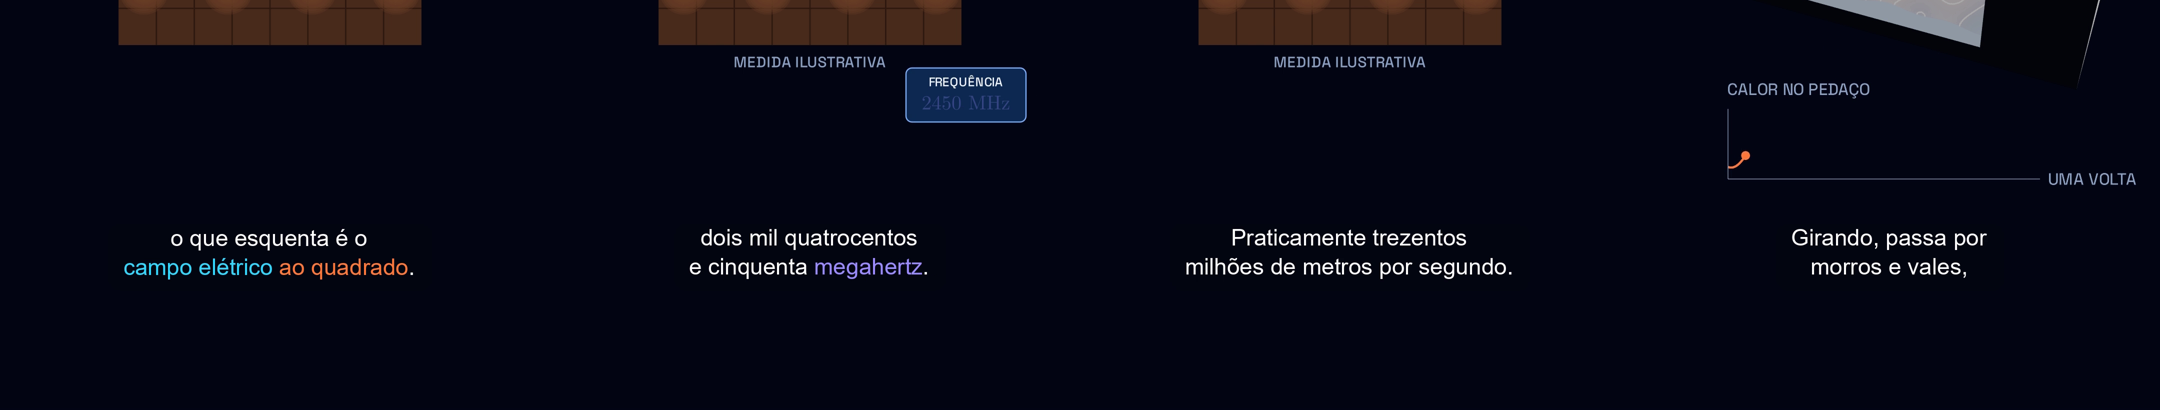
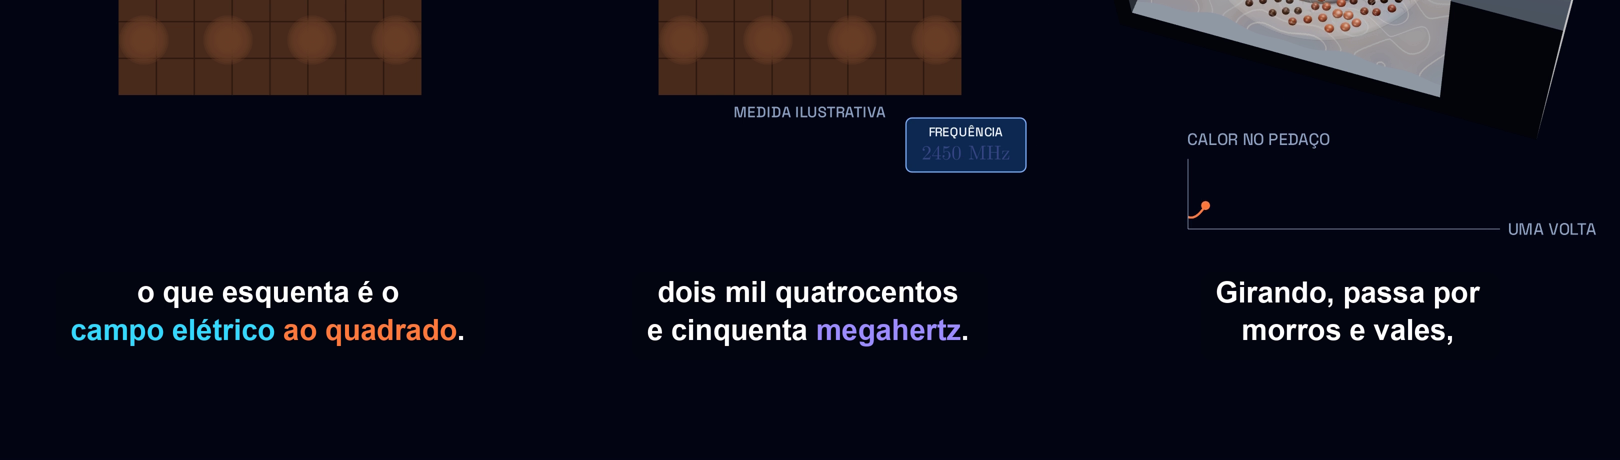
vid_0032: legendado no estilo padrao (negrito, sem caixa), como vid_0027 e vid_0028

diff --git a/videos/vid_0032_microondas_chocolate/ficha.md b/videos/vid_0032_microondas_chocolate/ficha.md
@@ -8,7 +8,7 @@ contínuo** (`narracao_tags_v3.md` → `audio/narracao_v3.wav`, 150,7 s, 463 pal
 `alinhar_voz.py` (forced alignment) → `sync_voz.py` reescreve o `timeline.json` com cada evento 0,12 s antes da palavra que o narra
 (pior atraso medido no render a 30 fps: +0,09 s). 3D: Three.js (`render3d.js`, 1080×1920/30 fps, 0,37 s/quadro); Manim: render em 6 faixas de animações
 (`-n`, uma pasta `media_fN` cada) e composição por `compor.py --midia media_f0,...`. Legenda `gerar_legenda.py` + `legenda_cores.py`
-(`montar_legendado.py --style compacto`). Preview 540×960 com voz: `renders/preview_v5_540x960.mp4`.
+(`montar_legendado.py`, estilo padrão como vid_0027 e vid_0028). Preview 540×960 com voz: `renders/preview_v5_540x960.mp4`.
 disciplina: Física II
 bloco: Oscilações e ondas
 modulo: 5.4 Superposição, interferência e ondas estacionárias (ponte: 6.12 / 7.1, velocidade da luz)
